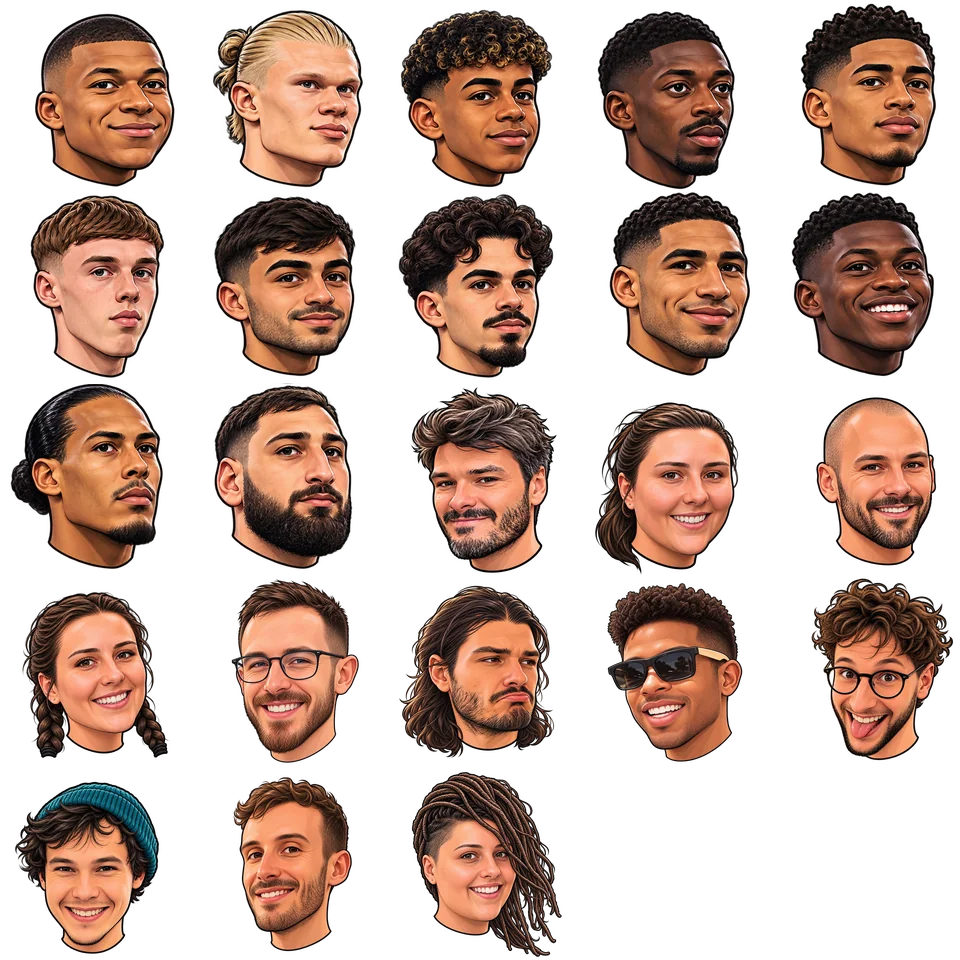
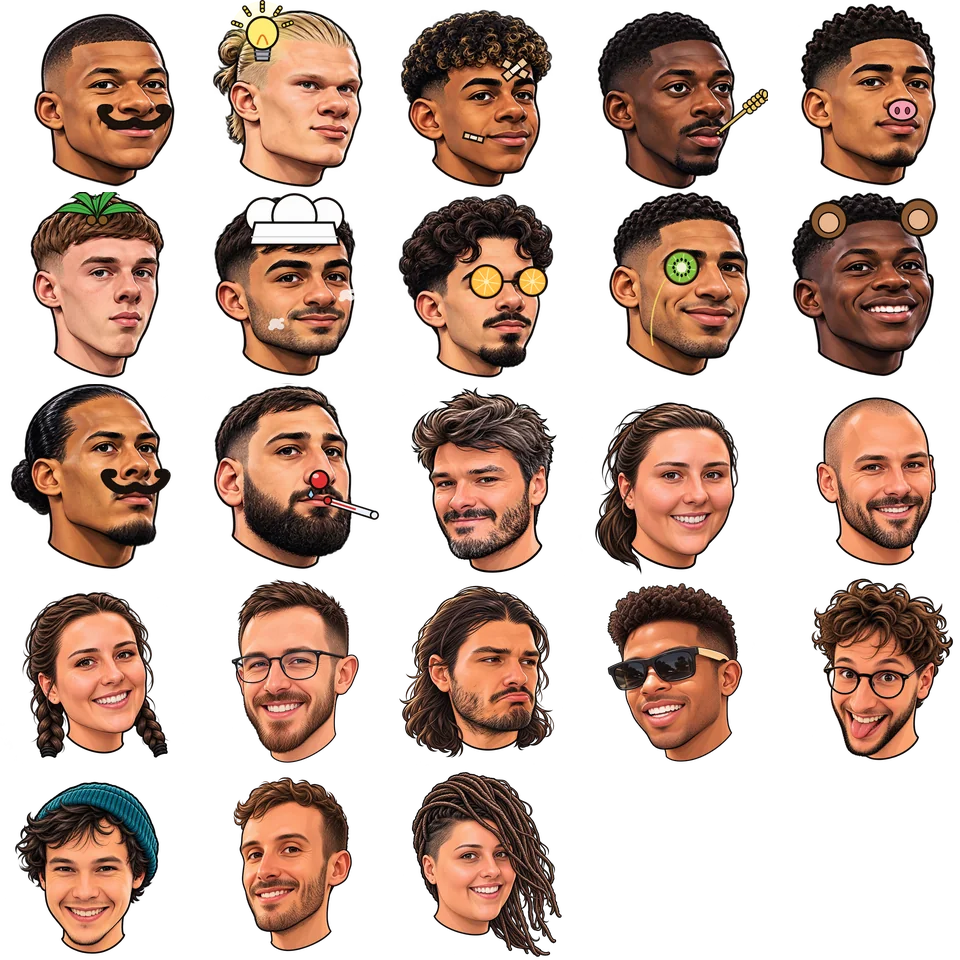
feat: parody props and exaggerated features on the twelve pro portraits
Each pro gets a gag tied to his parody name (bulb for Hallogène, pig snout
for Bellinjambon, palm tuft for Palmier...) plus a bigger nose and ears, so
the portraits read as parodies rather than likenesses. The original sheet
stays as the source; scripts/parody-portraits.py rebuilds the parody sheet.

Claude-Session: https://claude.ai/code/session_012zyRcz9GVQCebbphmT1r83

diff --git a/web/players.js b/web/players.js
@@ -4,7 +4,7 @@ export const PLAYER_COUNT = PLAYER_NAMES.length;
 // Keep the original atlas intact; new portraits use their own transparent sheet.
 export const AVATAR_SOURCE_FRAMES = [
   ...Array.from({ length: 12 }, (_, index) => ({
-    file: 'modern-players.png', sourceRect: [(index % 4) / 4, Math.floor(index / 4) / 3, 1 / 4, 1 / 3],
+    file: 'modern-players-parody.png', sourceRect: [(index % 4) / 4, Math.floor(index / 4) / 3, 1 / 4, 1 / 3],
   })),
   ...Array.from({ length: 2 }, (_, index) => ({
     file: 'pierre-vilma.png', sourceRect: [index / 2, 0, 1 / 2, 1], flipX: index === 0,

diff --git a/scripts/parody-portraits.py b/scripts/parody-portraits.py
@@ -1,0 +1,192 @@
+"""Turn the twelve pro portraits into parodies: bigger noses and ears, plus one gag
+prop per parody name. Run once after changing the props, then
+scripts/optimize-portraits.py to rebuild the portrait atlas.
+"""
+import math
+from pathlib import Path
+import numpy as np
+from PIL import Image, ImageDraw
+
+ROOT = Path(__file__).resolve().parents[1]
+SRC = ROOT / 'web/assets/modern-players.png'
+OUT = ROOT / 'web/assets/modern-players-parody.png'
+SS = 4  # supersampling for drawn props
+
+def bulges(cell, items):
+    """items: (cx, cy, R, strength) in cell pixels; inverse-mapped magnification."""
+    a = np.asarray(cell).astype(np.float32)
+    h, w = a.shape[:2]
+    yy, xx = np.mgrid[0:h, 0:w].astype(np.float32)
+    sx, sy = xx.copy(), yy.copy()
+    for cx, cy, R, s in items:
+        dx, dy = sx - cx, sy - cy
+        r = np.sqrt(dx * dx + dy * dy)
+        f = np.where(r < R, 1 - s * (1 - r / R) ** 2, 1.0)
+        sx, sy = cx + dx * f, cy + dy * f
+    x0 = np.clip(np.floor(sx).astype(int), 0, w - 2); y0 = np.clip(np.floor(sy).astype(int), 0, h - 2)
+    fx = np.clip(sx - x0, 0, 1)[..., None]; fy = np.clip(sy - y0, 0, 1)[..., None]
+    p = lambda yo, xo: a[y0 + yo, x0 + xo]
+    # premultiplied interpolation keeps transparent edges clean
+    def pm(v): return np.concatenate([v[..., :3] * v[..., 3:4] / 255, v[..., 3:4]], -1)
+    out = (pm(p(0, 0)) * (1 - fx) * (1 - fy) + pm(p(0, 1)) * fx * (1 - fy) + pm(p(1, 0)) * (1 - fx) * fy + pm(p(1, 1)) * fx * fy)
+    al = out[..., 3:4]
+    rgb = np.where(al > 0, out[..., :3] * 255 / np.maximum(al, 1e-3), 0)
+    return Image.fromarray(np.clip(np.concatenate([rgb, al], -1), 0, 255).astype(np.uint8), 'RGBA')
+
+class Pen:
+    def __init__(self, size, k):
+        self.k = k * SS  # 300-scale -> supersampled pixels
+        self.img = Image.new('RGBA', (size * SS, size * SS), (0, 0, 0, 0))
+        self.d = ImageDraw.Draw(self.img)
+        self.size = size
+    def P(self, pts): return [(x * self.k, y * self.k) for x, y in pts]
+    def B(self, x0, y0, x1, y1): return [x0 * self.k, y0 * self.k, x1 * self.k, y1 * self.k]
+    def w(self, v): return max(1, round(v * self.k))
+    def ellipse(self, cx, cy, rx, ry, fill, ow=3.5, outline=(20, 14, 10, 255)):
+        self.d.ellipse(self.B(cx - rx, cy - ry, cx + rx, cy + ry), fill=fill, outline=outline, width=self.w(ow) if ow else 0)
+    def poly(self, pts, fill, ow=3.5):
+        self.d.polygon(self.P(pts), fill=fill, outline=(20, 14, 10, 255), width=self.w(ow))
+    def line(self, pts, fill, width, joint='curve'):
+        self.d.line(self.P(pts), fill=fill, width=self.w(width), joint=joint)
+    def stroke(self, pts, fill, width, ow=3.0):
+        self.line(pts, (20, 14, 10, 255), width + 2 * ow); self.line(pts, fill, width)
+        for x, y in (pts[0], pts[-1]):
+            self.ellipse(x, y, width / 2 + ow, width / 2 + ow, (20, 14, 10, 255), 0)
+            self.ellipse(x, y, width / 2, width / 2, fill, 0)
+    def result(self): return self.img.resize((self.size, self.size), Image.Resampling.LANCZOS)
+
+def bezier(p0, p1, p2, n=24):
+    return [((1 - t) ** 2 * p0[0] + 2 * (1 - t) * t * p1[0] + t * t * p2[0], (1 - t) ** 2 * p0[1] + 2 * (1 - t) * t * p1[1] + t * t * p2[1]) for t in (i / n for i in range(n + 1))]
+
+# --- props, coordinates in a 300x300 cell ---------------------------------
+def mustache(p, cx, cy, span, color=(30, 20, 14, 255)):
+    for side in (-1, 1):
+        pts = bezier((cx, cy), (cx + side * span * 0.55, cy + 14), (cx + side * span, cy - 6))
+        curl = bezier(pts[-1], (cx + side * (span + 14), cy - 24), (cx + side * (span - 6), cy - 20), 10)
+        p.stroke(pts + curl[1:], color, 9, 2.5)
+    p.ellipse(cx, cy, 9, 7, color, 2.5)
+
+def bulb(p, cx, cy):
+    for r, a in ((50, 40), (40, 60), (32, 90)):
+        p.ellipse(cx, cy, r, r, (255, 240, 120, a), 0)
+    p.poly([(cx - 14, cy + 22), (cx + 14, cy + 22), (cx + 11, cy + 44), (cx - 11, cy + 44)], (170, 170, 180, 255), 3)
+    for k in (29, 36):
+        p.line([(cx - 13, cy + k), (cx + 13, cy + k)], (90, 90, 100, 255), 2.5)
+    p.ellipse(cx, cy, 26, 27, (255, 236, 120, 255), 3.5)
+    p.line(bezier((cx - 8, cy + 18), (cx, cy - 12), (cx + 8, cy + 18)), (230, 120, 30, 255), 3)
+    for ang in range(200, 341, 35):
+        a = math.radians(ang)
+        p.stroke([(cx + 36 * math.cos(a), cy + 36 * math.sin(a)), (cx + 48 * math.cos(a), cy + 48 * math.sin(a))], (255, 220, 60, 255), 4, 2)
+
+def plaster(p, cx, cy, ang, L=46, W=16):
+    a = math.radians(ang); ux, uy = math.cos(a), math.sin(a); vx, vy = -uy, ux
+    pts = [(cx + ux * sx * L / 2 + vx * sy * W / 2, cy + uy * sx * L / 2 + vy * sy * W / 2) for sx, sy in ((-1, -1), (1, -1), (1, 1), (-1, 1))]
+    p.poly(pts, (236, 196, 150, 255), 3)
+    pad = [(cx + ux * sx * L / 5 + vx * sy * W / 3, cy + uy * sx * L / 5 + vy * sy * W / 3) for sx, sy in ((-1, -1), (1, -1), (1, 1), (-1, 1))]
+    p.poly(pad, (250, 236, 220, 255), 1.5)
+
+def wheat(p, x0, y0, x1, y1):
+    p.stroke([(x0, y0), (x1, y1)], (226, 188, 90, 255), 4, 2)
+    dx, dy = x1 - x0, y1 - y0; L = math.hypot(dx, dy); ux, uy = dx / L, dy / L
+    for i in range(5):
+        t = 0.62 + i * 0.09
+        bx, by = x0 + dx * t, y0 + dy * t
+        for side in (-1, 1):
+            ex, ey = bx + ux * 9 - uy * side * 9, by + uy * 9 + ux * side * 9
+            p.ellipse((bx + ex) / 2, (by + ey) / 2, 6, 6, (238, 200, 96, 255), 2)
+    p.ellipse(x1 + ux * 4, y1 + uy * 4, 5, 7, (238, 200, 96, 255), 2)
+
+def snout(p, cx, cy):
+    p.ellipse(cx, cy, 24, 18, (246, 160, 176, 255), 3.5)
+    for s in (-1, 1): p.ellipse(cx + s * 8, cy + 1, 4, 6, (150, 60, 80, 255), 1.5)
+
+def palm(p, cx, cy):
+    # tuft of palm fronds sprouting from the top of the head, coconuts at the base
+    for ang, L in ((-165, 72), (-132, 66), (-95, 50), (-58, 66), (-15, 72)):
+        a = math.radians(ang)
+        tip = (cx + L * math.cos(a), cy + L * math.sin(a) * 0.75 + 8)
+        mid = (cx + L * 0.5 * math.cos(a), cy + L * math.sin(a) * 0.75 - 14)
+        top = bezier((cx, cy), mid, tip, 16)
+        n = len(top)
+        nx, ny = -math.sin(a), math.cos(a)
+        bulge = lambda i: 9 * math.sin(math.pi * i / (n - 1)) ** 0.8
+        poly = [(x + nx * bulge(i), y + ny * bulge(i)) for i, (x, y) in enumerate(top)]
+        poly += [(x - nx * bulge(i), y - ny * bulge(i)) for i, (x, y) in reversed(list(enumerate(top)))]
+        p.poly(poly, (70, 175, 70, 255), 2.5)
+        p.line(top[:-2], (40, 120, 45, 255), 1.5)
+    for dx in (-9, 9): p.ellipse(cx + dx, cy + 4, 9, 9, (130, 85, 40, 255), 2.5)
+
+def toque(p, cx, top, width):
+    for dx, r in ((-width * 0.32, 30), (width * 0.32, 30), (0, 36)):
+        p.ellipse(cx + dx, top + 32, r, r, (252, 252, 252, 255), 3.5)
+    p.poly([(cx - width * 0.42, top + 40), (cx + width * 0.42, top + 40), (cx + width * 0.48, top + 78), (cx - width * 0.48, top + 78)], (252, 252, 252, 255), 3.5)
+    p.line([(cx - width * 0.45, top + 64), (cx + width * 0.45, top + 64)], (210, 210, 215, 255), 2)
+
+def flour(p, cx, cy):
+    for dx, dy, r in ((0, 0, 9), (8, 5, 6), (-6, 7, 5), (10, -5, 4)):
+        p.ellipse(cx + dx, cy + dy, r, r * 0.8, (255, 255, 255, 190), 0)
+
+def citrus(p, cx, cy, r, rind, flesh, seg, seeds=False):
+    p.ellipse(cx, cy, r, r, rind, 3.5)
+    p.ellipse(cx, cy, r * 0.82, r * 0.82, flesh, 0)
+    for k in range(8):
+        a = math.radians(k * 45 + 10)
+        p.line([(cx, cy), (cx + r * 0.78 * math.cos(a), cy + r * 0.78 * math.sin(a))], seg, 1.6)
+    if seeds:
+        p.ellipse(cx, cy, r * 0.28, r * 0.28, (238, 240, 210, 255), 0)
+        for k in range(12):
+            a = math.radians(k * 30)
+            p.ellipse(cx + r * 0.45 * math.cos(a), cy + r * 0.45 * math.sin(a), 1.8, 2.6, (20, 20, 15, 255), 0)
+    else:
+        p.ellipse(cx, cy, r * 0.14, r * 0.14, seg, 0)
+
+def bear_ears(p, pts):
+    for cx, cy in pts:
+        p.ellipse(cx, cy, 30, 30, (140, 90, 50, 255), 3.5)
+        p.ellipse(cx, cy + 3, 17, 17, (230, 180, 140, 255), 2)
+
+def thermometer(p, x0, y0, x1, y1):
+    p.stroke([(x0, y0), (x1, y1)], (235, 240, 250, 255), 9, 2.5)
+    p.line([(x0, y0), (x0 + (x1 - x0) * 0.6, y0 + (y1 - y0) * 0.6)], (220, 40, 40, 255), 3)
+    p.ellipse(x0, y0, 7, 7, (220, 40, 40, 255), 2.5)
+
+def red_nose(p, cx, cy, r=15):
+    p.ellipse(cx, cy, r, r, (226, 50, 50, 255), 3.5)
+    p.ellipse(cx - r * 0.35, cy - r * 0.4, r * 0.3, r * 0.22, (255, 200, 200, 230), 0)
+
+def drop(p, cx, cy):
+    p.poly([(cx, cy - 10), (cx + 6, cy + 2), (cx, cy + 9), (cx - 6, cy + 2)], (150, 210, 255, 255), 2)
+
+# face data (300-scale): nose tip, ears, extra bulges, prop drawing
+FACES = [
+    dict(nose=(213, 170), ear=(72, 170), extra=[(150, 245, 70, -0.25)], props=lambda p: mustache(p, 210, 190, 46)),
+    dict(nose=(225, 172), ear=(80, 160), extra=[(200, 90, 70, 0.2)], props=lambda p: bulb(p, 110, 52)),
+    dict(nose=(200, 185), ear=(65, 185), extra=[], props=lambda p: (plaster(p, 205, 108, 30), plaster(p, 205, 108, -40), plaster(p, 140, 215, 15, 34, 12))),
+    dict(nose=(212, 175), ear=(65, 170), extra=[], props=lambda p: wheat(p, 222, 208, 292, 150)),
+    dict(nose=(207, 168), ear=(75, 165), extra=[(160, 210, 60, 0.2)], props=lambda p: snout(p, 210, 172)),
+    dict(nose=(202, 165), ear=(70, 150), extra=[(160, 90, 70, 0.15)], props=lambda p: palm(p, 152, 40)),
+    dict(nose=(205, 170), ear=(55, 155), extra=[], props=lambda p: (toque(p, 160, 6, 150), flour(p, 130, 205), flour(p, 240, 160))),
+    dict(nose=(212, 175), ear=(70, 180), extra=[], props=lambda p: (citrus(p, 160, 140, 27, (240, 140, 20, 255), (255, 190, 70, 255), (255, 235, 180, 255)), citrus(p, 232, 140, 24, (240, 140, 20, 255), (255, 190, 70, 255), (255, 235, 180, 255)), p.line([(187, 140), (208, 140)], (20, 14, 10, 255), 4))),
+    dict(nose=(215, 160), ear=(75, 150), extra=[(210, 200, 50, 0.2)], props=lambda p: (citrus(p, 165, 118, 28, (120, 85, 45, 255), (130, 190, 60, 255), (200, 230, 150, 255), True), p.line(bezier((140, 135), (110, 190), (120, 240)), (230, 200, 90, 255), 2.5))),
+    dict(nose=(197, 157), ear=(55, 150), extra=[], props=lambda p: bear_ears(p, ((95, 45), (235, 40)))),
+    dict(nose=(215, 142), ear=(70, 150), extra=[(200, 230, 60, 0.2)], props=lambda p: mustache(p, 212, 160, 42, (25, 18, 12, 255))),
+    dict(nose=(196, 147), ear=(55, 145), extra=[], props=lambda p: (red_nose(p, 199, 150, 16), drop(p, 186, 172), thermometer(p, 212, 182, 285, 205))),
+]
+
+im = Image.open(SRC).convert('RGBA')
+W, H = im.size
+out = Image.new('RGBA', (W, H))
+for i, f in enumerate(FACES):
+    box = (round(i % 4 * W / 4), round(i // 4 * H / 3), round((i % 4 + 1) * W / 4), round((i // 4 + 1) * H / 3))
+    cell = im.crop(box)
+    k = cell.width / 300
+    items = [(f['nose'][0] * k, f['nose'][1] * k, 46 * k, 0.45), (f['ear'][0] * k, f['ear'][1] * k, 34 * k, 0.32)]
+    items += [(x * k, y * k, R * k, s) for x, y, R, s in f['extra']]
+    warped = bulges(cell, items)
+    size = max(cell.size)
+    pen = Pen(size, k)
+    f['props'](pen)
+    layer = pen.result().crop((0, 0) + cell.size)
+    warped.alpha_composite(layer)
+    out.paste(warped, box[:2])
+out.save(OUT)

diff --git a/docs/players.md b/docs/players.md
@@ -70,6 +70,10 @@ Les portraits sont des caricatures générées pour ce projet avec l'outil
 intégré imagegen. L'atlas transparent `web/assets/modern-players.png` contient
 4 colonnes et 3 rangées, dans l'ordre de `web/players.js`. Le renderer découpe
 les cellules directement à l'affichage ; le fichier original est conservé.
+Le jeu affiche `web/assets/modern-players-parody.png`, produit par
+`scripts/parody-portraits.py` : nez et oreilles grossis, plus un gag lié à
+chaque nom parodique (ampoule, pansements, brin de blé, groin, palmier, toque…).
+Après modification, relancer ce script puis `scripts/optimize-portraits.py`.
 Les caricatures privées ont chacune leur fichier dans `web/assets/`, regroupé
 ensuite dans `portraits.webp` ; leur ordre est celui de `web/players.js`.
 Les photos de référence restent hors du dépôt.
